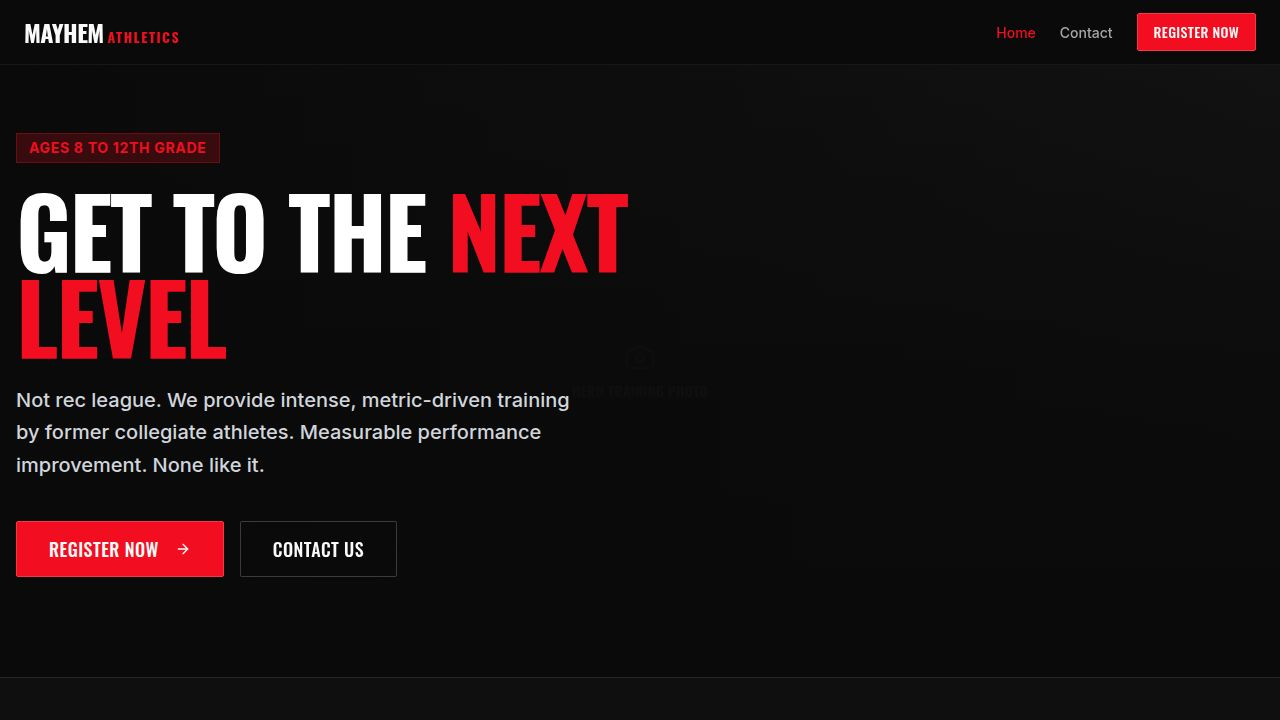
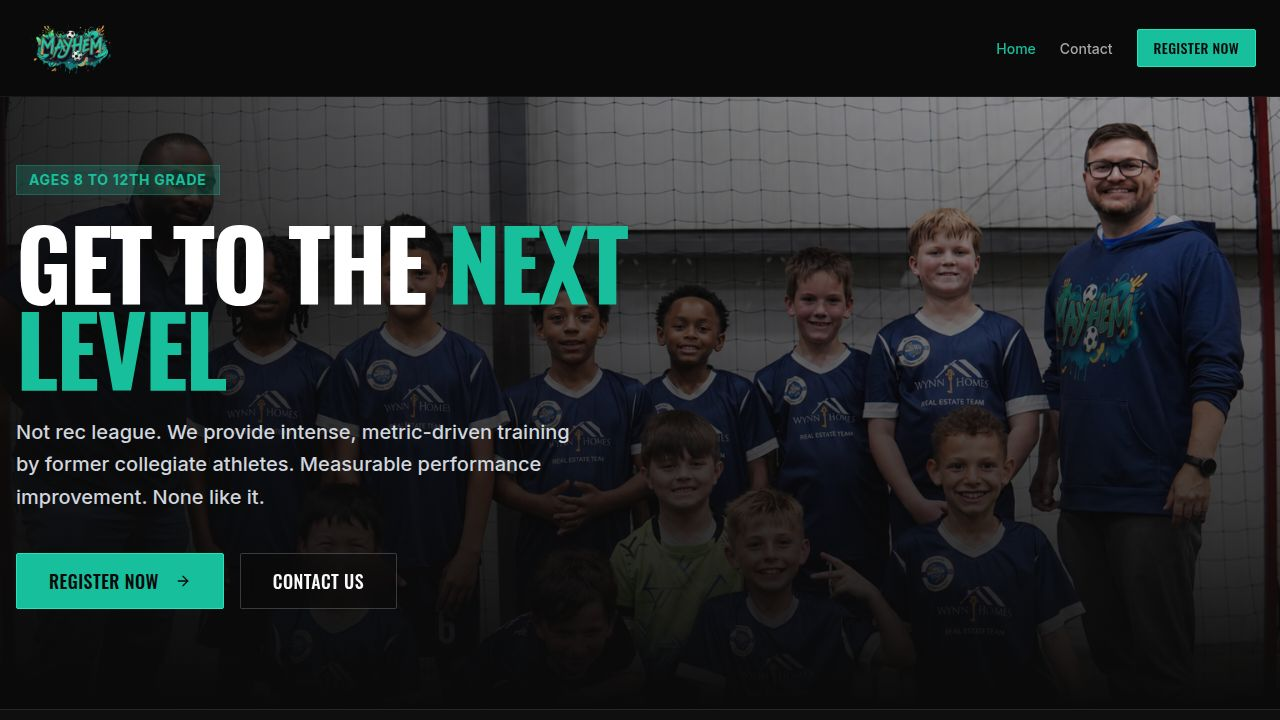
Update hero section image and gradient overlay
Update the hero section image source to `team-photo-2.png`, adjust object-cover positioning to `center`, increase opacity, and modify gradient overlays to improve visibility of the team photo.

Replit-Commit-Author: Agent
Replit-Commit-Session-Id: 74f44246-b7a4-4a59-8c73-0e4610f43f93
Replit-Commit-Checkpoint-Type: full_checkpoint
Replit-Commit-Event-Id: 291de8c8-e075-4274-a536-b3ec54d2f097
Replit-Commit-Screenshot-Url: https://storage.googleapis.com/screenshot-production-us-central1/6c6b4da7-41d7-4bfc-8d50-a0fee65a4076/74f44246-b7a4-4a59-8c73-0e4610f43f93/VopQs9L
Replit-Helium-Checkpoint-Created: true

diff --git a/artifacts/mayhem-athletics/src/pages/Home.tsx b/artifacts/mayhem-athletics/src/pages/Home.tsx
@@ -33,9 +33,9 @@ export default function Home() {
       {/* 1. Hero Section */}
       <section className="relative min-h-[85vh] flex items-center pt-16 pb-24 overflow-hidden">
         <div className="absolute inset-0 z-0">
-          <img src="/team-photo-1.jpg" alt="Mayhem Athletics team" className="w-full h-full object-cover object-top opacity-80" />
-          <div className="absolute inset-0 bg-gradient-to-t from-background via-background/50 to-transparent" />
-          <div className="absolute inset-0 bg-gradient-to-r from-background/80 via-background/30 to-transparent" />
+          <img src="/team-photo-2.png" alt="Mayhem Athletics team" className="w-full h-full object-cover object-center opacity-90" />
+          <div className="absolute inset-0 bg-gradient-to-t from-background via-background/60 to-background/10" />
+          <div className="absolute inset-0 bg-gradient-to-r from-background/70 via-transparent to-transparent" style={{ maxWidth: '40%' }} />
         </div>
         
         <div className="container mx-auto px-4 z-10 relative">
